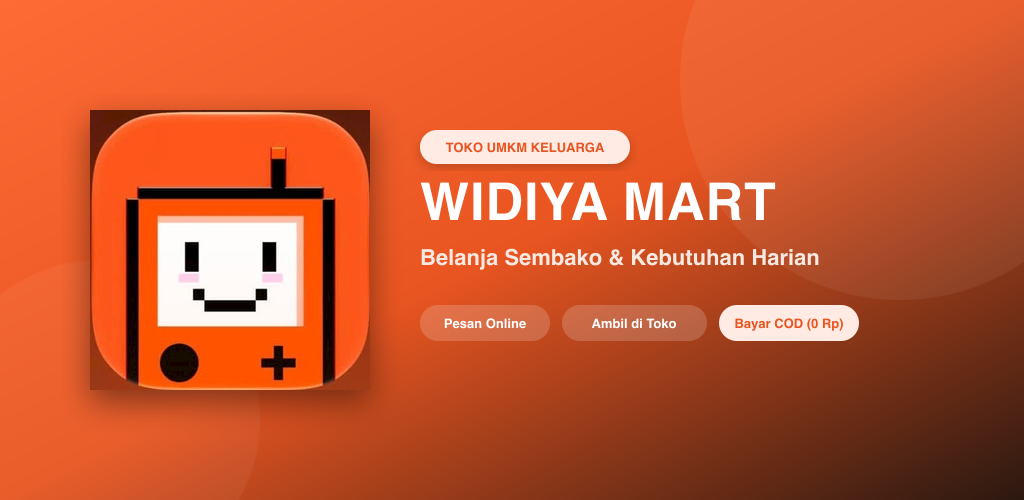
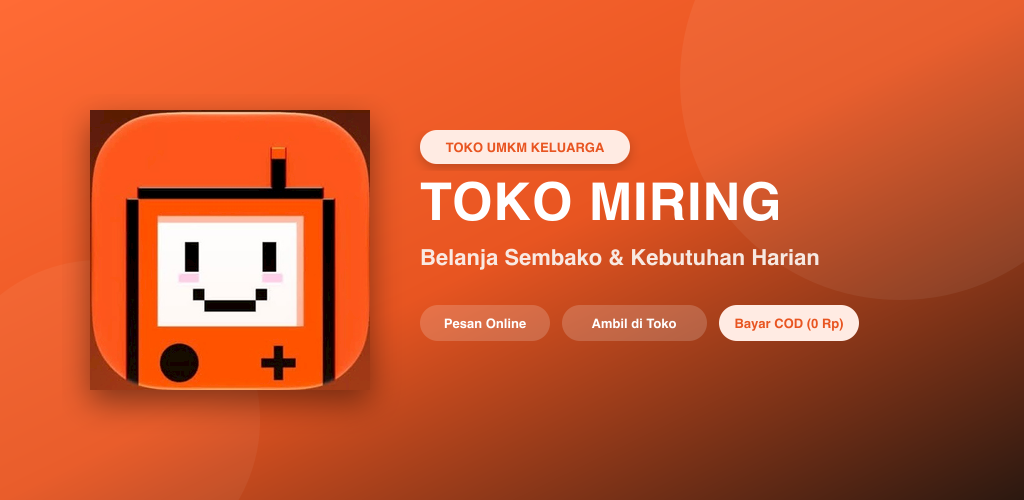
feat(branding): change store and app name to TOKO MIRING across web, android, and database

Changed region(s): [[0.4062, 0.36, 0.7812, 0.45]]

diff --git a/src/app/(store)/kebijakan-privasi/page.tsx b/src/app/(store)/kebijakan-privasi/page.tsx
@@ -3,8 +3,8 @@ import Link from 'next/link'
 import { ChevronLeft, ShieldCheck } from 'lucide-react'
 
 export const metadata = {
-  title: 'Kebijakan Privasi - Widiya Mart',
-  description: 'Kebijakan privasi dan perlindungan data pengguna aplikasi Widiya Mart.',
+  title: 'Kebijakan Privasi - TOKO MIRING',
+  description: 'Kebijakan privasi dan perlindungan data pengguna aplikasi TOKO MIRING.',
 }
 
 export default function KebijakanPrivasiPage() {
@@ -22,13 +22,13 @@ export default function KebijakanPrivasiPage() {
         <div className="card-3d bg-card border border-[rgba(232,214,205,0.9)] rounded-[20px] p-4 shadow-3d space-y-3">
           <div className="flex items-center gap-2 text-[var(--accent-2)] font-sora font-bold text-sm">
             <ShieldCheck className="w-5 h-5" />
-            <span>Kebijakan Privasi Widiya Mart</span>
+            <span>Kebijakan Privasi TOKO MIRING</span>
           </div>
           <p className="text-[var(--ink-soft)]">
             Terakhir diperbarui: September 2026
           </p>
           <p>
-            Widiya Mart menghormati privasi pengguna dan berkomitmen untuk melindungi data pribadi yang Anda bagikan saat menggunakan aplikasi dan layanan kami. Kebijakan Privasi ini menjelaskan bagaimana kami mengumpulkan, menggunakan, dan melindungi informasi Anda.
+            TOKO MIRING menghormati privasi pengguna dan berkomitmen untuk melindungi data pribadi yang Anda bagikan saat menggunakan aplikasi dan layanan kami. Kebijakan Privasi ini menjelaskan bagaimana kami mengumpulkan, menggunakan, dan melindungi informasi Anda.
           </p>
         </div>
 
@@ -75,7 +75,7 @@ export default function KebijakanPrivasiPage() {
         <div className="card-3d bg-card border border-[rgba(232,214,205,0.9)] rounded-[20px] p-4 shadow-3d space-y-2">
           <h2 className="font-sora font-bold text-xs text-[var(--ink)]">5. Kontak Layanan Pelanggan</h2>
           <p className="text-[var(--ink-soft)]">
-            Jika Anda memiliki pertanyaan seputar Kebijakan Privasi ini, Anda dapat menghubungi Widiya Mart melalui kontak kasir toko atau WhatsApp yang tertera di aplikasi.
+            Jika Anda memiliki pertanyaan seputar Kebijakan Privasi ini, Anda dapat menghubungi TOKO MIRING melalui kontak kasir toko atau WhatsApp yang tertera di aplikasi.
           </p>
         </div>
       </div>

diff --git a/android/app/src/main/java/com/widiyamart/app/MainActivity.kt b/android/app/src/main/java/com/widiyamart/app/MainActivity.kt
@@ -100,7 +100,7 @@ class MainActivity : AppCompatActivity() {
 
     private fun setupNotificationChannel() {
         if (Build.VERSION.SDK_INT >= Build.VERSION_CODES.O) {
-            val descriptionText = "Pemberitahuan untuk pesanan baru di Widiya Mart"
+            val descriptionText = "Pemberitahuan untuk pesanan baru di TOKO MIRING"
             val importance = NotificationManager.IMPORTANCE_HIGH
             val channel = NotificationChannel(CHANNEL_ID, CHANNEL_NAME, importance).apply {
                 description = descriptionText
@@ -269,7 +269,7 @@ class MainActivity : AppCompatActivity() {
         @JavascriptInterface
         fun showNotification(title: String?, message: String?) {
             runOnUiThread {
-                val notifTitle = if (title.isNullOrEmpty()) "Pesanan Baru Widiya Mart" else title
+                val notifTitle = if (title.isNullOrEmpty()) "Pesanan Baru TOKO MIRING" else title
                 val notifMessage = if (message.isNullOrEmpty()) "Ada pesanan baru masuk! Silakan periksa aplikasi." else message
                 triggerNativeNotification(notifTitle, notifMessage)
             }
@@ -369,7 +369,7 @@ class MainActivity : AppCompatActivity() {
                     } else {
                         Toast.makeText(
                             this@MainActivity,
-                            "Tekan sekali lagi untuk keluar dari Widiya Mart",
+                            "Tekan sekali lagi untuk keluar dari TOKO MIRING",
                             Toast.LENGTH_SHORT
                         ).show()
                         backPressedTime = System.currentTimeMillis()

diff --git a/src/app/admin/layout.tsx b/src/app/admin/layout.tsx
@@ -9,13 +9,13 @@ import AdminOrderNotifier from '@/components/admin/AdminOrderNotifier'
 import type { Metadata } from 'next'
 
 export const metadata: Metadata = {
-  title: 'Admin Panel | Widiya Mart',
-  applicationName: 'Widiya Mart Admin',
+  title: 'Admin Panel | TOKO MIRING',
+  applicationName: 'TOKO MIRING Admin',
   manifest: '/admin-manifest.json',
   appleWebApp: {
     capable: true,
     statusBarStyle: 'default',
-    title: 'Widiya Admin',
+    title: 'TOKO MIRING Admin',
   },
   icons: {
     icon: [
@@ -62,7 +62,7 @@ export default async function AdminLayout({
           <div className="logo-box flex items-center justify-center p-1 overflow-hidden shrink-0">
             <Image
               src="/logo.png"
-              alt="Widiya Mart Logo"
+              alt="TOKO MIRING Logo"
               width={28}
               height={28}
               className="rounded-[8px] object-cover"
@@ -70,7 +70,7 @@ export default async function AdminLayout({
           </div>
           <div>
             <p className="font-sora font-bold text-sm text-[var(--ink)] leading-tight">Admin Panel</p>
-            <p className="text-xs text-[var(--ink-soft)] font-medium">Widiya Mart</p>
+            <p className="text-xs text-[var(--ink-soft)] font-medium">TOKO MIRING</p>
           </div>
         </div>
 

diff --git a/src/app/daftar/page.tsx b/src/app/daftar/page.tsx
@@ -17,7 +17,7 @@ export default function DaftarPage() {
           <div className="w-14 h-14 rounded-[16px] bg-gradient-to-br from-[var(--accent)] to-[var(--accent-2)] flex items-center justify-center mx-auto mb-3 shadow-[0_6px_14px_-2px_rgba(255,107,53,.45),inset_0_1px_0_rgba(255,255,255,.4)]">
             <Image
               src="/logo.png"
-              alt="Widiya Mart Logo"
+              alt="TOKO MIRING Logo"
               width={46}
               height={46}
               className="rounded-[12px] object-cover"
@@ -25,7 +25,7 @@ export default function DaftarPage() {
             />
           </div>
           <h1 className="text-xl font-sora font-bold text-[var(--ink)]">Daftar Akun</h1>
-          <p className="text-[var(--ink-soft)] text-xs mt-0.5 font-medium">Buat akun Widiya Mart baru</p>
+          <p className="text-[var(--ink-soft)] text-xs mt-0.5 font-medium">Buat akun TOKO MIRING baru</p>
         </div>
 
         <Card className="p-5 border border-[rgba(232,214,205,0.9)]">

diff --git a/src/app/masuk/page.tsx b/src/app/masuk/page.tsx
@@ -17,7 +17,7 @@ export default function MasukPage() {
           <div className="w-14 h-14 rounded-[16px] bg-gradient-to-br from-[var(--accent)] to-[var(--accent-2)] flex items-center justify-center mx-auto mb-3 shadow-[0_6px_14px_-2px_rgba(255,107,53,.45),inset_0_1px_0_rgba(255,255,255,.4)]">
             <Image
               src="/logo.png"
-              alt="Widiya Mart Logo"
+              alt="TOKO MIRING Logo"
               width={46}
               height={46}
               className="rounded-[12px] object-cover"
@@ -25,7 +25,7 @@ export default function MasukPage() {
             />
           </div>
           <h1 className="text-xl font-sora font-bold text-[var(--ink)]">Masuk</h1>
-          <p className="text-[var(--ink-soft)] text-xs mt-0.5 font-medium">Masuk ke akun Widiya Mart kamu</p>
+          <p className="text-[var(--ink-soft)] text-xs mt-0.5 font-medium">Masuk ke akun TOKO MIRING kamu</p>
         </div>
 
         <Card className="p-5 border border-[rgba(232,214,205,0.9)]">

diff --git a/src/app/(store)/page.tsx b/src/app/(store)/page.tsx
@@ -37,7 +37,7 @@ export default async function HomePage() {
           <div className="logo-box flex items-center justify-center p-1 overflow-hidden shrink-0 shadow-[0_6px_14px_-2px_rgba(255,107,53,.45),inset_0_1px_0_rgba(255,255,255,.4)]">
             <Image
               src="/logo.png"
-              alt="Widiya Mart Logo"
+              alt="TOKO MIRING Logo"
               width={34}
               height={34}
               className="rounded-[10px] object-cover"
@@ -46,7 +46,7 @@ export default async function HomePage() {
           </div>
           <div>
             <h1 className="font-sora font-bold text-[15px] leading-tight text-[var(--ink)]">
-              {storeInfo?.nama_toko ?? 'Widiya Mart'}
+              {storeInfo?.nama_toko ?? 'TOKO MIRING'}
             </h1>
             <p className="text-[11px] text-[var(--ink-soft)] leading-tight font-medium">
               Pesan online, ambil di toko (COD)

diff --git a/src/app/layout.tsx b/src/app/layout.tsx
@@ -13,17 +13,17 @@ export const viewport: Viewport = {
 }
 
 export const metadata: Metadata = {
-  applicationName: 'Widiya Mart',
+  applicationName: 'TOKO MIRING',
   title: {
-    default: 'Widiya Mart',
-    template: '%s | Widiya Mart',
+    default: 'TOKO MIRING',
+    template: '%s | TOKO MIRING',
   },
-  description: 'Belanja kebutuhan sehari-hari di Widiya Mart. Pesan online, ambil di toko, bayar COD.',
+  description: 'Belanja kebutuhan sehari-hari di TOKO MIRING. Pesan online, ambil di toko, bayar COD.',
   manifest: '/manifest.webmanifest',
   appleWebApp: {
     capable: true,
     statusBarStyle: 'default',
-    title: 'Widiya Mart',
+    title: 'TOKO MIRING',
   },
   icons: {
     icon: [

diff --git a/android/app/src/main/java/com/widiyamart/app/OrderAlarmReceiver.kt b/android/app/src/main/java/com/widiyamart/app/OrderAlarmReceiver.kt
@@ -129,7 +129,7 @@ class OrderAlarmReceiver : BroadcastReceiver() {
         if (Build.VERSION.SDK_INT >= Build.VERSION_CODES.O) {
             val importance = NotificationManager.IMPORTANCE_HIGH
             val channel = NotificationChannel(channelId, MainActivity.CHANNEL_NAME, importance).apply {
-                description = "Pemberitahuan untuk pesanan baru di Widiya Mart"
+                description = "Pemberitahuan untuk pesanan baru di TOKO MIRING"
                 enableVibration(true)
                 vibrationPattern = longArrayOf(0, 500, 200, 500)
                 val audioAttributes = AudioAttributes.Builder()

diff --git a/src/components/ProductDetailInteractive.tsx b/src/components/ProductDetailInteractive.tsx
@@ -34,7 +34,7 @@ export default function ProductDetailInteractive({ product, storePhone = '087816
   const isOutOfStock = activeStock === 0
 
   const getWhatsAppMessage = () => {
-    let msg = `Halo Admin Widiya Mart, saya ingin menanyakan apakah stok produk ini masih ada?\n\n*${product.nama}*\nHarga: ${formatRupiah(activePrice)}`
+    let msg = `Halo Admin TOKO MIRING, saya ingin menanyakan apakah stok produk ini masih ada?\n\n*${product.nama}*\nHarga: ${formatRupiah(activePrice)}`
     if (selectedVariant?.nama) {
       msg += `\nVarian: ${selectedVariant.nama}`
     }

diff --git a/src/app/manifest.ts b/src/app/manifest.ts
@@ -2,9 +2,9 @@ import type { MetadataRoute } from 'next'
 
 export default function manifest(): MetadataRoute.Manifest {
   return {
-    name: 'Widiya Mart',
-    short_name: 'Widiya Mart',
-    description: 'Belanja kebutuhan sehari-hari di Widiya Mart. Pesan online, ambil di toko, bayar COD.',
+    name: 'TOKO MIRING',
+    short_name: 'TOKO MIRING',
+    description: 'Belanja kebutuhan sehari-hari di TOKO MIRING. Pesan online, ambil di toko, bayar COD.',
     start_url: '/',
     display: 'standalone',
     background_color: '#FAF0EB',

diff --git a/src/app/(store)/pesanan/[id]/page.tsx b/src/app/(store)/pesanan/[id]/page.tsx
@@ -102,7 +102,7 @@ export default async function OrderDetailPage({ params }: OrderDetailPageProps) 
             <a
               href={formatWhatsAppUrl(
                 store.whatsapp || store.no_hp_toko,
-                `Halo Admin Widiya Mart, saya ingin menanyakan pesanan #${order.id.slice(0, 8).toUpperCase()}`
+                `Halo Admin TOKO MIRING, saya ingin menanyakan pesanan #${order.id.slice(0, 8).toUpperCase()}`
               )}
               target="_blank"
               rel="noopener noreferrer"

diff --git a/src/app/admin/page.tsx b/src/app/admin/page.tsx
@@ -49,7 +49,7 @@ export default async function AdminDashboardPage() {
     <div className="space-y-4">
       <div>
         <h1 className="text-xl font-sora font-bold text-[var(--ink)]">Ringkasan Toko</h1>
-        <p className="text-xs text-[var(--ink-soft)] mt-0.5 font-medium">Pantau kinerja penjualan dan operasional Widiya Mart</p>
+        <p className="text-xs text-[var(--ink-soft)] mt-0.5 font-medium">Pantau kinerja penjualan dan operasional TOKO MIRING</p>
       </div>
 
       {/* Summary Cards */}
